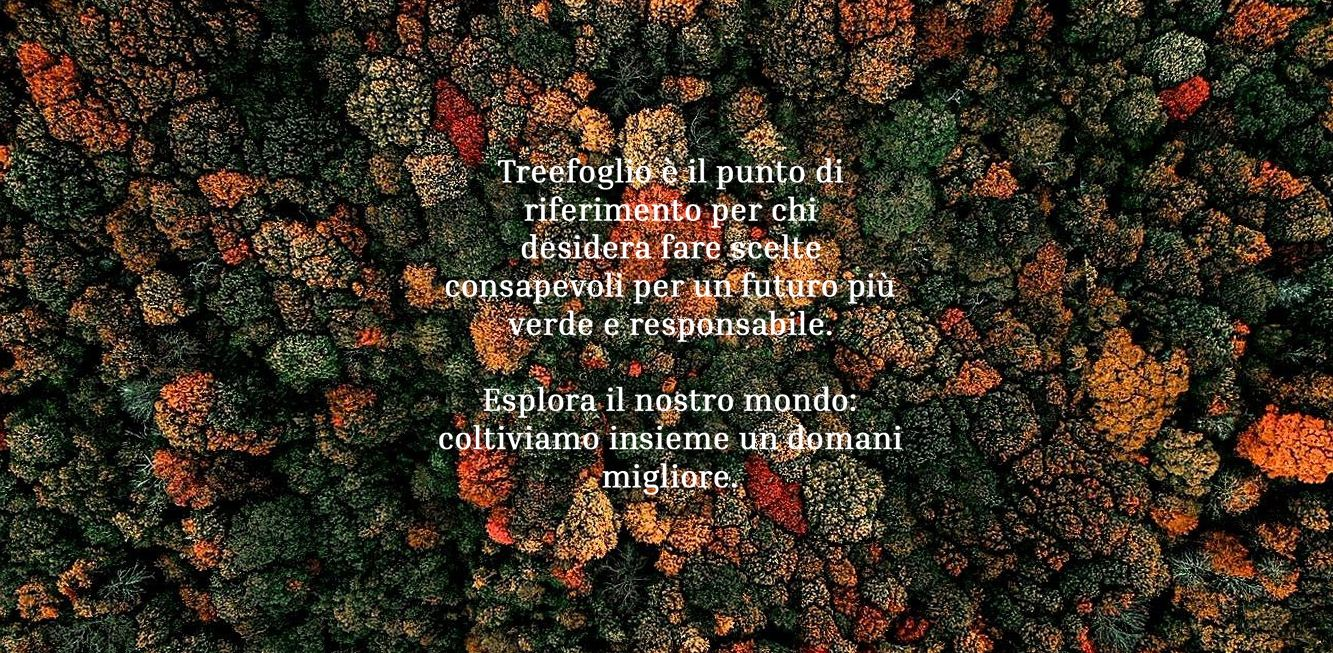
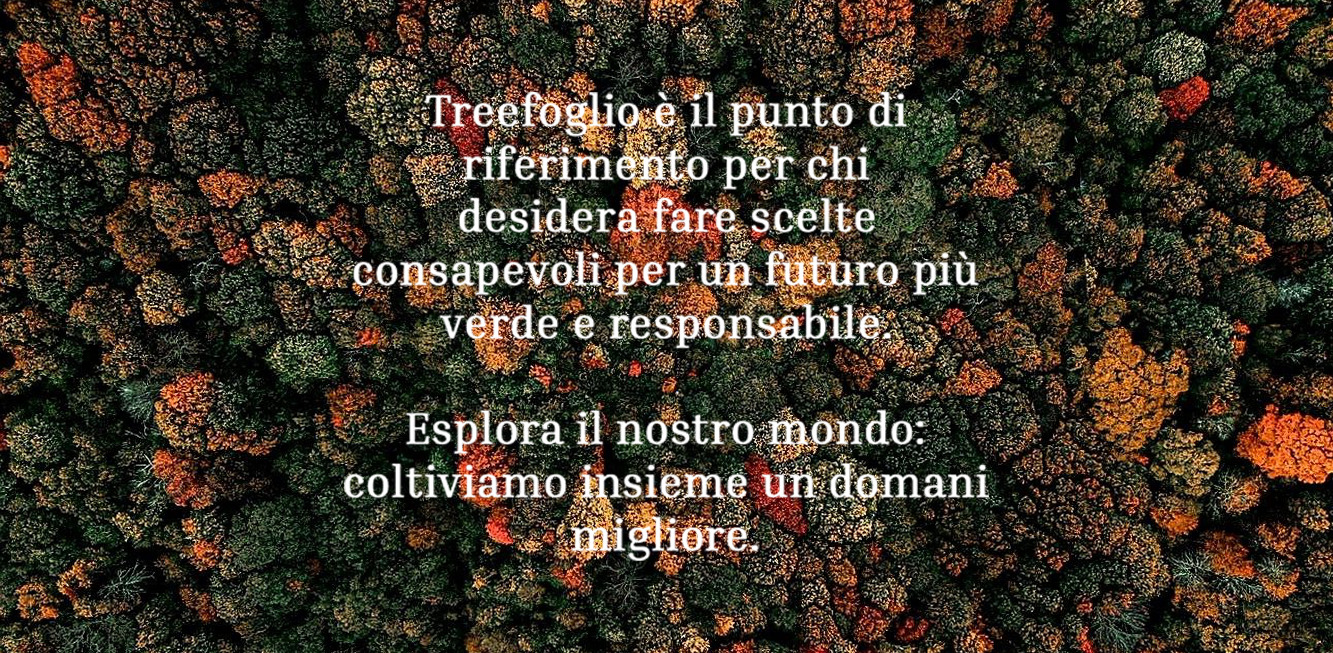
Add files via upload

Changed region(s): [[0.2461, 0.1225, 0.7382, 0.5513], [0.2461, 0.5819, 0.7382, 0.8576]]

diff --git a/alimentazione_ecosostenibile.html b/alimentazione_ecosostenibile.html
@@ -16,8 +16,7 @@
     <a href="index.html"><img src="immagini/logo7.png" alt="Logo Aziendale" class="logo"></a>
     </div>
       <nav class="menu">
-        <ul> 
-        <li><a href="index.html" id="Home">HOME</a></li>
+        <ul>
         <li><div class="dropdown"><a href="#" id="pagine" class="dropbtn">PAGINE</a>
         <div class="dropdown-content">
           <a href="cambiamento_climatico.html">Cambiamento Climatico</a>
@@ -34,43 +33,33 @@
 </header>
 <div class="corpo">
   <div class="dettaglio">
-    <br>
     <h3 class="chapter_title">ALIMENTAZIONE ECOSOSTENIBILE</h3>
-    <br>
-    <table>
-      <tr>
-        <th><img src="immagini/alimentazione1.png"></th>
-      </tr>
-    </table>
-    <br/><br/>
+    <img class="prima_immagine" src="immagini/alimentazione1.png">
+    <br/>
     <div class="testo">
-      <br>
       <p>Il concetto di sostenibilità riguarda anche il cibo che portiamo in tavola:<br> una scelta più consapevole degli alimenti.
         Non solo esistono alimenti sostenibili ma è possibile, con qualche <br>indicazione e un piccolo sforzo, ridurre l’impatto che l’alimentazione globale ha sulla Terra.</p>
-        <br>
     </div>
-    <br/><br/>
+    <br/>
     <table>
       <tr>
         <th><img src="immagini/alimentazione2.png"></th>
         <th><img src="immagini/alimentazione3.png"></th>
     </table>
-    <br/><br/>
+    <br/>
     <div class="testo">
       <br>
       <p>Per mangiare sostenibile e tutelare l’ambienta cosa occorre fare? <br>
         Molto semplicemente, seguire <br>le indicazioni fondamentali su cui si basa la dieta mediterranea:</p>
 		<ul>
-          <li>Consumare gli alimenti rispettando la <br>stagionalità degli stessi.</li>
-          <li>Prediligere i prodotti del territorio, infatti, non solo<br> aiuta a sostenere l’economia di prossimità ma <br>anche ad abbassare in modo sensibile le emissioni inquinanti limitando il trasporto merci su grandi distanze.</li>
-          <li>Fare a meno di pesca e allevamenti<br> intensivi, estremamente dannosi per l’ambiente poiché richiedono un grande consumo di acqua.</li>
-          <li>Riduzione drastica o<br> eliminazione della carne (quella rossa è la più impattante).</li>
-          <li>Consumare meno e meglio: comprare sfuso, ad esempio, permette <br>di ridurre le confezioni e ottimizzare il packaging da smaltire.</li>
-          <br>
-          <br>
-        </ul>
+      <li>Consumare gli alimenti rispettando la <br>stagionalità degli stessi.</li>
+      <li>Prediligere i prodotti del territorio, infatti, non solo<br> aiuta a sostenere l’economia di prossimità ma <br>anche ad abbassare in modo sensibile le emissioni inquinanti limitando il trasporto merci su grandi distanze.</li>
+      <li>Fare a meno di pesca e allevamenti<br> intensivi, estremamente dannosi per l’ambiente poiché richiedono un grande consumo di acqua.</li>
+      <li>Riduzione drastica o<br> eliminazione della carne (quella rossa è la più impattante).</li>
+      <li>Consumare meno e meglio: comprare sfuso, ad esempio, permette <br>di ridurre le confezioni e ottimizzare il packaging da smaltire.</li>
+      <br>
+    </ul>
     </div>
-    <br/><br/>
   </div>
   <br/>
   <table class="footer">

diff --git a/abbattimento_alberi.html b/abbattimento_alberi.html
@@ -16,8 +16,7 @@
     <a href="index.html"><img src="immagini/logo7.png" alt="Logo Aziendale" class="logo"></a>
     </div>
       <nav class="menu">
-        <ul> 
-        <li><a href="index.html" id="Home">HOME</a></li>
+        <ul>
         <li><div class="dropdown"><a href="#" id="pagine" class="dropbtn">PAGINE</a>
         <div class="dropdown-content">
           <a href="cambiamento_climatico.html">Cambiamento Climatico</a>
@@ -34,29 +33,21 @@
 </header>
 <div class="corpo">
   <div class="dettaglio">
-    <br>
     <h3 class="chapter_title">ABBATTIMENTO DEGLI ALBERI</h3>
-    <br>
-    <table>
-      <tr>
-        <th><img src="immagini/alberi1.png"></th>
-      </tr>
-    </table>
-    <br/><br/>
+    <img class="prima_immagine" src="immagini/alberi1.png">
+    <br/>
     <div class="testo">
-      <br>
       <p>La deforestazione è una delle minacce più gravi per l'ambiente.<br> Si verifica quando l'abbattimento degli alberi supera il loro <br>tasso di ricrescita, portando a perdita di suolo fertile, desertificazione, <br>alterazioni degli ecosistemi e aumento della CO2, contribuendo al riscaldamento globale.</p>
       <p>Nelle città, l'abbattimento degli alberi è un problema complesso. Molti cittadini non conoscono le<br> leggi che proteggono il patrimonio arboreo urbano.</p>
       <p>L'articolo 734 del Codice Penale punisce la distruzione di bellezze <br>naturali in aree protette. Nel 2014, durante il vertice Onu Climate Summit, è stato firmato<br> un accordo per fermare la deforestazione entro il 2030 e ripristinare oltre 350 milioni di<br> ettari di foreste e campi coltivati.</p>
-    <br>
     </div>
-    <br/><br/>
+    <br/>
     <table>
       <tr>
         <th><img src="immagini/alberi2.png"></th>
         <th><img src="immagini/alberi3.png"></th>
     </table>
-    <br/><br/>
+    <br/>
     <div class="testo">
       <br>
       <p>Tuttavia, gli incendi devastanti e il cambiamento climatico<br> ostacolano gli sforzi di riforestazione. È cruciale non solo piantare alberi, ma assicurarsi che sopravvivano.<br> Devono essere sviluppate linee guida per scegliere le specie di semi più <br>adatte ai vari ambienti, tenendo conto delle nuove condizioni climatiche.</p>
@@ -64,7 +55,6 @@
     <br>
     <br>
     </div>
-    <br/><br/>
   </div>
   <br/>
   <table class="footer">

diff --git a/rifiuti_tecnologici.html b/rifiuti_tecnologici.html
@@ -16,8 +16,7 @@
     <a href="index.html"><img src="immagini/logo7.png" alt="Logo Aziendale" class="logo"></a>
     </div>
       <nav class="menu">
-        <ul> 
-        <li><a href="index.html" id="Home">HOME</a></li>
+        <ul>
         <li><div class="dropdown"><a href="#" id="pagine" class="dropbtn">PAGINE</a>
         <div class="dropdown-content">
           <a href="cambiamento_climatico.html">Cambiamento Climatico</a>
@@ -34,32 +33,23 @@
 </header>
 <div class="corpo">
   <div class="dettaglio">
-    <br>
     <h3 class="chapter_title">RIFIUTI TECNOLOGICI</h3>
-    <br>
-    <table>
-      <tr>
-        <th><img src="immagini/tecno1.png"></th>
-      </tr>
-    </table>
-    <br/><br/>
+    <img class="prima_immagine" src="immagini/tecno1.png">
+    <br/>
     <div class="testo">
-      <br>
       <p>Molti componenti tecnologici sono difficili da smaltire perché contengono materiali diversi.<br>Questi rifiuti sono classificati come RAEE (Rifiuti da Apparecchiature Elettriche ed Elettroniche).</p>
       <p>I RAEE vanno conferiti nelle isole ecologiche, centri di raccolta specializzati<br> Qui vengono separati e inviati agli impiandi di trattamento.
         Riciclare i rifiuti elettronici è essenziale per ridurre l'impatto ambientale: <br>se non trattati correttamente, possono essere molto inquinanti.</p>
       <p>Uno degli obiettivi del riciclo dei RAEE è recuperare le terre rare<br> dai dispositivi elettronici.
         Questi elementi sono preziosi come la tecnologia moderna,<br>ma oggi vengono riciclati<br> solo in minima parte. La ricerca, però, sta migliorando i metodi di recupero.</p>
       <p>L'abbigliamento ecologico non è più una scelta di nicchia,<br> ma una necessità per un futuro più sostenibile.</p>
-      <br>
     </div>
-    <br/><br/>
+    <br/>
     <table>
       <tr>
         <th><img src="immagini/tecno2.jpg"></th>
         <th><img src="immagini/tecno3.png"></th>
     </table>
-    <br/><br/>
     <div class="testo">
       <br>
       <p>Esistono 5 diversi processi di riciclo, che variano in base al tipo di rifiuto. <br>Tuttavia, ci sono 4 passaggi fondamentali che li accomunano:</p>
@@ -71,7 +61,6 @@
         <br>
       </ul>
 	</div>
-    <br/><br/>
   </div>
   <br/>
   <table class="footer">

diff --git a/vestiti_impatto.html b/vestiti_impatto.html
@@ -16,8 +16,7 @@
     <a href="index.html"><img src="immagini/logo7.png" alt="Logo Aziendale" class="logo"></a>
     </div>
       <nav class="menu">
-        <ul> 
-        <li><a href="index.html" id="Home">HOME</a></li>
+        <ul>
         <li><div class="dropdown"><a href="#" id="pagine" class="dropbtn">PAGINE</a>
         <div class="dropdown-content">
           <a href="cambiamento_climatico.html">Cambiamento Climatico</a>
@@ -34,15 +33,9 @@
 </header>
 <div class="corpo">
   <div class="dettaglio">
-    <br>
     <h3 class="chapter_title">ABBIGLIAMENTO ECOSOSTENIBILE</h3>
-    <br>
-    <table>
-      <tr>
-        <th><img src="immagini/abbigliamento1.png"></th>
-      </tr>
-    </table>
-    <br/><br/>
+    <img class="prima_immagine" src="immagini/abbigliamento1.png">
+    <br/>
     <div class="testo">
       <br>
       <p>L'industria tessile è uno dei settori più impattanti sull'ambiente, rendendo cruciale l'adozione di abbigliamento ecologico.<br> Sempre più aziende, riconoscendo l'importanza della sostenibilità, <br>stanno introducendo collezioni realizzate con materiali rispettosi dell'ambiente,<br> includendo sia alta moda che abbigliamento da lavoro.</p>
@@ -57,7 +50,6 @@
       <p>Adottare abbigliamento ecologico non è più una scelta di nicchia,<br> ma una necessità per un futuro più sostenibile e rispettoso dell'ambiente.</p>
       <br>
     </div>
-    <br/><br/>
     <table>
       <tr>
         <th><img src="immagini/abbigliamento2.jpg"></th>
@@ -66,8 +58,6 @@
       </tr>
     </table>
     <br>
-    <br>
-    <br/><br/>
   </div>
   <br/>
   <table class="footer">

diff --git a/conservazione_acqua.html b/conservazione_acqua.html
@@ -16,8 +16,7 @@
     <a href="index.html"><img src="immagini/logo7.png" alt="Logo Aziendale" class="logo"></a>
     </div>
       <nav class="menu">
-        <ul> 
-        <li><a href="index.html" id="Home">HOME</a></li>
+        <ul>
         <li><div class="dropdown"><a href="#" id="pagine" class="dropbtn">PAGINE</a>
         <div class="dropdown-content">
           <a href="cambiamento_climatico.html">Cambiamento Climatico</a>
@@ -34,11 +33,8 @@
 </header>
 <div class="corpo">
   <div class="dettaglio">
-    <br>
     <h3 class="chapter_title">CONSERVAZIONE DELL'ACQUA</h3>
-    <br>
     <img class="prima_immagine" src="immagini/acqua1.png">
-    <br/><br/>
     <div class="testo">
       <br>
       <p>L'acqua è una risorsa vitale per la vita sulla Terra. Copre il 71% della superficie del pianeta e costituisce circa il 60% del corpo umano. Tuttavia, solo il 2.5% dell'acqua è dolce e accessibile per l'uso umano.</p>
@@ -51,13 +47,11 @@
         <br>
       </ul>
     </div>
-    <br/><br/>
     <table>
       <tr>
         <th><img src="immagini/acqua2.png"></th>
         <th><img src="immagini/acqua3.png"></th>
     </table>
-    <br/><br/>
     <div class="testo">
       <br>
       <p>Le azioni necessarie sono:</p>
@@ -65,10 +59,8 @@
         <li>Risparmio: Chiudi il rubinetto mentre ti lavi i denti, ripara perdite e usa elettrodomestici a basso consumo.</li>
         <li>Conservazione: Sostieni progetti di tutela delle risorse idriche e campagne di riforestazione.</li>
         <br>
-        <br>
       </ul>
     </div>
-    <br/><br/>
   </div>
   <br/>
   <table class="footer">

diff --git a/css/style.css b/css/style.css
@@ -198,32 +198,64 @@ header {
   text-align: center;
 }
 
-.contenitore-rettangoli { 
-  margin-left: 10%;
-  margin-right: auto;
+.contenitore-rettangoli {
+  display: flex;
+  flex-direction: column;
+  align-items: center;
+  gap: 20px;
+  margin: 0 auto;
+  max-width: 1200px;
 }
 
 .rettangolo {
-  border: 2px solid green;
   display: flex;
   align-items: center;
+  justify-content: flex-start;
   padding: 30px;
   background-color: #FCF4ED;
-  width: 100%;
+  width: 90%;
+  max-width: 800px;
+  height: 200px;
   box-shadow: 0 4px 6px rgba(0, 0, 0, 0.1);
-  table-layout: fixed; /*aggiunto*/
+  border: 2px solid green;
 }
 
 .rettangolo img {
-  width: 50%;
-  height: auto;
-  margin-right: 10%;
+  width: 35%;
+  height: 100%;
+  object-fit: cover; 
+  margin-right: 5%;
 }
 
 .rettangolo h1 {
-  font-size: 4vw;
+  font-size: 2.5vw; 
   color: #365146;
+  flex: 1; 
+  text-align: left;
+  word-wrap: break-word;
 }
+
+
+@media (max-width: 768px) {
+  .rettangolo {
+    flex-direction: column;
+    text-align: center;
+    height: auto;
+    width: 95%;
+  }
+
+  .rettangolo img {
+    width: 80%;
+    height: auto;
+    margin-right: 0;
+    margin-bottom: 10px;
+  }
+
+  .rettangolo h1 {
+    font-size: 5vw;
+  }
+}
+
 
 .link-rettangolo {
   text-decoration: none;
@@ -245,6 +277,3 @@ td:nth-child(odd) {
 td:nth-child(even) {
   padding-left: 5%; /*aggiunto*/
 }
-
-
-

diff --git a/chi_siamo.html b/chi_siamo.html
@@ -16,8 +16,7 @@
     <a href="index.html"><img src="immagini/logo7.png" alt="Logo Aziendale" class="logo"></a>
     </div>
       <nav class="menu">
-        <ul> 
-        <li><a href="index.html" id="Home">HOME</a></li>
+        <ul>
         <li><div class="dropdown"><a href="#" id="pagine" class="dropbtn">PAGINE</a>
         <div class="dropdown-content">
           <a href="cambiamento_climatico.html">Cambiamento Climatico</a>
@@ -35,18 +34,13 @@
 <div class="corpo">
   <div class="dettaglio">
     <h1 class="chapter_title">CHI SIAMO</h1>
-    <table>
-      <tr>
-        <th><img src="immagini/chi_siamo.png"></th>
-      </tr>
-    </table>
-    <br/><br/>
+   <img class="prima_immagine" src="immagini/chi_siamo.png">
+    <br/>
     <div class="testo">
       <h3>
         <p>"Treefoglio è nato dall'idea che informarsi sull'ambiente non <br> debba essere complicato, ma potente. Il nostro obiettivo è far sì che le persone capiscano <br> l'impatto delle loro scelte quotidiane e trovino ispirazione per un cambiamento reale, <br> perché il futuro del pianeta dipende dalle nostre azioni oggi."</p>
       </h3>
     </div>
-    <br/><br/>
   </div>
   <br/>
   <table class="footer">

diff --git a/index.html b/index.html
@@ -37,6 +37,7 @@
 <div>
 <div class="seconda">Scelti per te</div> <br/>
 </div>
+<br/>
 <div class="contenitore-rettangoli">
   <a href="cambiamento_climatico.html" class="link-rettangolo">
     <div class="rettangolo">

diff --git a/cambiamento_climatico.html b/cambiamento_climatico.html
@@ -62,7 +62,6 @@
         <li>Riciclare e gestire i rifiuti responsabilmente</li>
         <li>Fare scelte alimentari sostenibili</li>
         <br>
-        <br>
       </ul>
     </div>
   </div>
